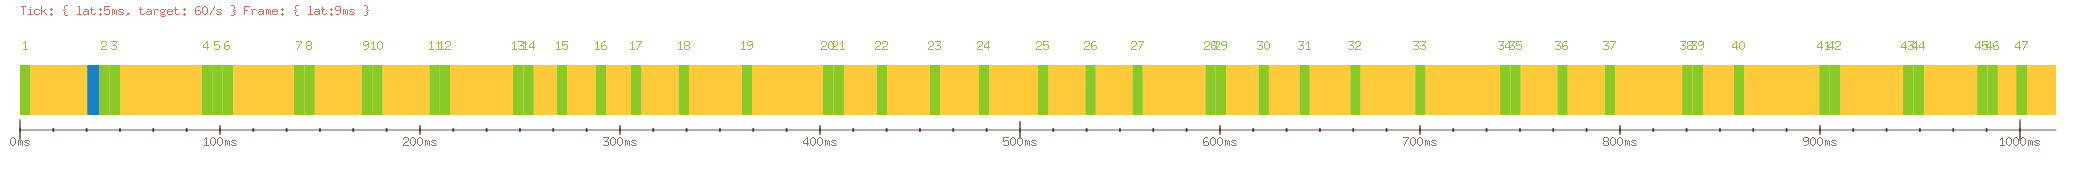
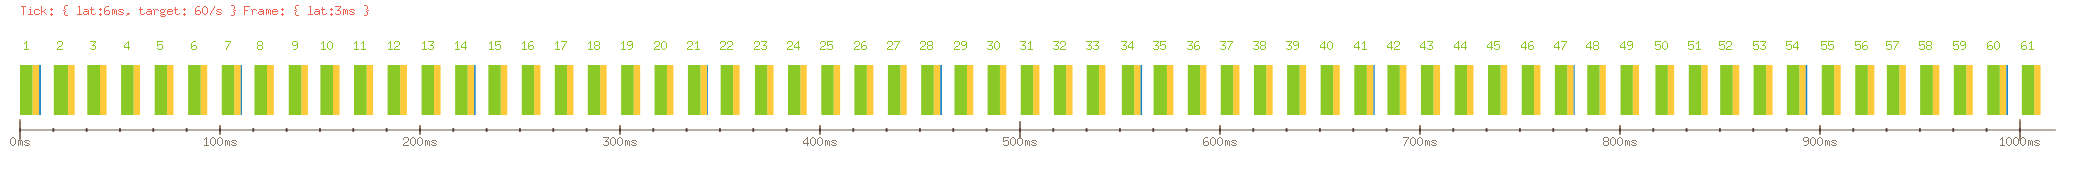
update readme

diff --git a/frame/executor_tracepng_test.go b/frame/executor_tracepng_test.go
@@ -3,7 +3,6 @@ package frame
 import (
 	"context"
 	"fmt"
-	"math/rand"
 	"path"
 	"testing"
 	"time"
@@ -74,19 +73,52 @@ func testTraceVariants() []testTraceVariant {
 			testDuration:         time.Second * 1,
 			targetTicksPerSecond: 60,
 
-			latencyTick:  time.Millisecond * 5,
-			latencyFrame: time.Millisecond * 9,
+			latencyTick:  time.Millisecond * 6,
+			latencyFrame: time.Millisecond * 3,
+		},
+		{
+			outputName:           "2_tick_lags_emulation",
+			testDuration:         time.Second * 1,
+			targetTicksPerSecond: 60,
 
-			additionalLogicFrame: func(frameID int) {
-				time.Sleep(time.Millisecond * time.Duration(rand.Float64()*33))
+			latencyTick:  time.Millisecond * 6,
+			latencyFrame: time.Millisecond * 3,
+
+			additionalLogicTick: func(tickID int) {
+				if tickID >= 10 && tickID <= 30 {
+					time.Sleep(time.Duration(tickID) * time.Millisecond)
+				}
 			},
+		},
+		{
+			outputName:           "3_frame_lags_emulation",
+			testDuration:         time.Second * 1,
+			targetTicksPerSecond: 60,
+
+			latencyTick:  time.Millisecond * 6,
+			latencyFrame: time.Millisecond * 3,
+
+			additionalLogicFrame: func(tickID int) {
+				if tickID >= 10 && tickID <= 30 {
+					time.Sleep(time.Duration(tickID) * time.Millisecond)
+				}
+			},
+		},
+		{
+			outputName:           "4_task_lags_emulation",
+			testDuration:         time.Second * 1,
+			targetTicksPerSecond: 60,
+
+			latencyTick:  time.Millisecond * 6,
+			latencyFrame: time.Millisecond * 3,
 
 			additionalTasks: []*Task{
 				NewTask(func() {
-					time.Sleep(time.Millisecond * 5)
+					time.Sleep(time.Millisecond * 100)
 				},
+					WithRunAtLeastOnceIn(time.Millisecond*500),
+					WithRunAtMostOnceIn(time.Second),
 					WithPriority(TaskPriorityHigh),
-					WithRunAtLeastOnceIn(time.Millisecond*100),
 				),
 			},
 		},

diff --git a/readme.md b/readme.md
@@ -2,7 +2,7 @@
 
 Library for making endless game-loops, it`s heart of any game engine.
 
-![gameloop](./example/gameloop.png)
+![gameloop](example/gameloop.png)
 
 Game loop is endless loop:
 ```go
@@ -19,7 +19,7 @@ Each __cycle__ contains 4 different steps:
 
 ## Deterministic cycles
 
-Every update is deterministic, and deltaTime always fixed and same
+Every update is deterministic, and deltaTime always fixed and same -
 independent of hardware.
 
 You can make any game state updates in `Tick` function
@@ -31,10 +31,7 @@ Executor will run your `gameLoop` and automatic collect
 and calculate all frame stats, also it will be throttle
 processing, when CPU is more powerful than we need in `targetTPS`
 
-After each frame, it call `afterFrame` function with all
-frame stats, and most useful is frame `stats.DeltaTime`
-
-```
+```go
 package main
 
 import "github.com/fe3dback/glx-frames/frame"
@@ -67,7 +64,7 @@ Optionally stats collector can be used in `Executor`
 Stats collector is just a function `func(s Stats)`.
 This function will be executed right after each cycle end
 
-```
+```go
 frame.NewExecutor(
   frame.WithTargetTPS(60),
   frame.WithStatsCollector(func(stats frame.Stats) {
@@ -78,7 +75,7 @@ frame.NewExecutor(
 
 Stats object contain information about cycle execution and timings
 
-```
+```go
 type Stats struct {
   // CycleID is number of game loop cycles since game start (this will auto inc to +1 every loop)
   CycleID uint64
@@ -104,6 +101,10 @@ type Stats struct {
   CurrentFPS int // real counted frames per second
 }
 
+type Timings struct {
+  Start    time.Time
+  Duration time.Duration
+}
 ```
 
 ## Tasks
@@ -183,7 +184,7 @@ Color mapping:
 - blue = tasks
 - white = throttle (sleep)
 
-![trace](./example/trace/example.png)
+![trace](example/example.png)
 
 #### This test also in text profile
 
